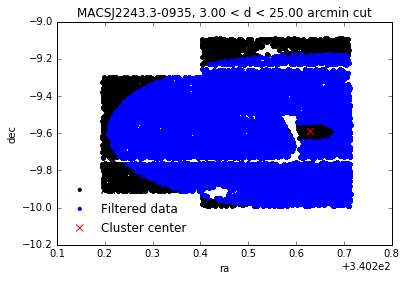
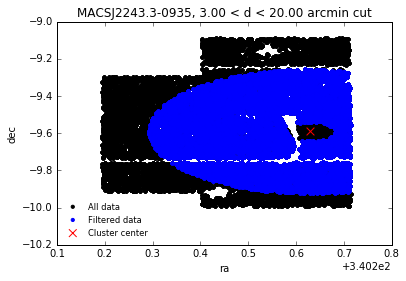
Correct data.py and the tutorial

diff --git a/clusters/data.py b/clusters/data.py
@@ -60,39 +60,40 @@ def get_from_butler(butler, catalog, filt, patch, **kwargs):
     tract = 0 if 'tract' not in kwargs else kwargs['tract']
     table = False if 'table' not in kwargs else kwargs['table']
     dataid = {'tract': tract, 'filter': filt, 'patch': patch}
-    b = butler.get(catalog, dataId=dataid)
-    return b if not table else get_astropy_table(b, **kwargs)
+    afwt = butler.get(catalog, dataId=dataid)
+    return afwt if not table else get_astropy_table(afwt, **kwargs)
 
 
-def add_magnitudes(t, getmagnitude):
+def add_magnitudes(table, getmagnitude):
     """Compute magns for all fluxes of a given table. Add the corresponding new columns."""
-    kfluxes = [k for k in t.columns if k.endswith('_flux')]
+    kfluxes = [k for k in table.columns if k.endswith('_flux')]
     ksigmas = [k + 'Sigma' for k in kfluxes]
-    for kf, ks in zip(kfluxes, ksigmas):
-        m, dm = numpy.array([getmagnitude(f, s) for f, s in zip(t[kf], t[ks])]).T
-        t.add_columns([Column(name=kf.replace('_flux', '_mag'), data=m,
-                              description='Magnitude', unit='mag'),
-                       Column(name=ks.replace('_fluxSigma', '_magSigma'), data=dm,
-                              description='Magnitude error', unit='mag')])
+    for kflux, ksigma in zip(kfluxes, ksigmas):
+        mag, dmag = numpy.array([getmagnitude(f, s)
+                                 for f, s in zip(table[kflux], table[ksigma])]).T
+        table.add_columns([Column(name=kflux.replace('_flux', '_mag'), data=mag,
+                                  description='Magnitude', unit='mag'),
+                           Column(name=ksigma.replace('_fluxSigma', '_magSigma'), data=dmag,
+                                  description='Magnitude error', unit='mag')])
 
 
-def add_position_and_deg(t, wcs):
+def add_position_and_deg(table, wcs):
     """Compute the x/y position in pixel for all sources. Add new columns to the table."""
     # Add the x / y position in pixel
-    x, y = skycoord_to_pixel(SkyCoord(t["coord_ra"].tolist(),
-                                      t["coord_dec"].tolist(), unit='rad'), wcs)
-    t.add_columns([Column(name='x_Src', data=x,
-                          description='x coordinate', unit='pixel'),
-                   Column(name='y_Src', data=y,
-                          description='y coordinate', unit='pixel')])
+    xsrc, ysrc = skycoord_to_pixel(SkyCoord(table["coord_ra"].tolist(),
+                                            table["coord_dec"].tolist(), unit='rad'), wcs)
+    table.add_columns([Column(name='x_Src', data=xsrc,
+                              description='x coordinate', unit='pixel'),
+                       Column(name='y_Src', data=ysrc,
+                              description='y coordinate', unit='pixel')])
 
     # Add a new column to have to coordinates in degree
-    t.add_columns([Column(name='coord_ra_deg',
-                          data=Angle(t['coord_ra'].tolist(), unit='rad').degree,
-                          description='RA coordinate', unit='degree'),
-                   Column(name='coord_dec_deg',
-                          data=Angle(t['coord_dec'].tolist(), unit='rad').degree,
-                          description='DEC coordinate', unit='degree')])
+    table.add_columns([Column(name='coord_ra_deg',
+                              data=Angle(table['coord_ra'].tolist(), unit='rad').degree,
+                              description='RA coordinate', unit='degree'),
+                       Column(name='coord_dec_deg',
+                              data=Angle(table['coord_dec'].tolist(), unit='rad').degree,
+                              description='DEC coordinate', unit='degree')])
 
 
 def add_filter_column(table, filt):
@@ -105,15 +106,15 @@ def add_patch_column(table, patch):
     table.add_column(Column(name='patch', data=[patch] * len(table), description='Patch name'))
 
 
-def add_extra_info(d):
+def add_extra_info(data):
     """Add magnitude and position to all tables."""
     # get the wcs
-    wcs = WCS(get_wcs(d))
+    wcs = WCS(get_wcs(data))
 
     # Shorcut to magnitude function
-    filt = d.keys()[0]
-    patch = d[filt].keys()[0]
-    getmag = d[filt][patch]['calexp'].getCalib().getMagnitude
+    filt = data.keys()[0]
+    patch = data[filt].keys()[0]
+    getmag = data[filt][patch]['calexp'].getCalib().getMagnitude
 
     def mag(flux, sigma):
         """Redefine the magnitude function. Negative flux or sigma possible."""
@@ -123,16 +124,16 @@ def add_extra_info(d):
             return getmag(flux, sigma)
 
     # compute all magnitudes and positions
-    for f in d:  # loop on filters
-        for p in d[f]:  # loop on patches
-            for e in ['deepCoadd_meas', 'deepCoadd_forced_src']:  # loop on catalogs
-                print "INFO: adding extra info for", f, p, e
-                add_magnitudes(d[f][p][e], mag)
-                add_filter_column(d[f][p][e], f)
-                add_patch_column(d[f][p][e], p)
-                add_position_and_deg(d[f][p][e], wcs)
+    for filt in data:  # loop on filters
+        for patch in data[filt]:  # loop on patches
+            for cat in ['deepCoadd_meas', 'deepCoadd_forced_src']:  # loop on catalogs
+                print "INFO: adding extra info for", filt, patch, cat
+                add_magnitudes(data[filt][patch][cat], mag)
+                add_filter_column(data[filt][patch][cat], filt)
+                add_patch_column(data[filt][patch][cat], patch)
+                add_position_and_deg(data[filt][patch][cat], wcs)
 
-    return d
+    return data
 
 
 def get_wcs(d):
@@ -172,7 +173,7 @@ def skycoord_to_pixel(coords, wcs, unit='deg'):
     return utils.skycoord_to_pixel(coords, wcs)
 
 
-def pixel_to_skycoord(x, y, wcs):
+def pixel_to_skycoord(xsrc, ysrc, wcs):
     """Transform pixel coordinates (x, y) to sky coordinates (ra, dec in deg) given a wcs.
 
     :param float x: x coordinate
@@ -180,7 +181,7 @@ def pixel_to_skycoord(x, y, wcs):
     :param wcs: an astropy.wcs.WCS object
     :return: an astropy.coordinates.SkyCoord object.
     """
-    return utils.pixel_to_skycoord(x, y, wcs)
+    return utils.pixel_to_skycoord(xsrc, ysrc, wcs)
 
 
 def get_all_data(path, patches, filters, add_extra=False, keys=None, show=False):
@@ -221,14 +222,14 @@ def get_all_data(path, patches, filters, add_extra=False, keys=None, show=False)
     return out
 
 
-def get_filter_data(butler, patches, f, keys=None):
+def get_filter_data(butler, patches, filt, keys=None):
     """
     Get butler data for a list of patches, for a given filter.
 
     Return a dictionnary with patches as keys
     """
-    print "INFO: loading filter", f
-    return {p: get_patch_data(butler, p, f, keys=keys) for p in patches}
+    print "INFO: loading filter", filt
+    return {patch: get_patch_data(butler, patch, filt, keys=keys) for patch in patches}
 
 
 def get_patch_data(butler, p, f, keys=None):
@@ -349,19 +350,21 @@ def from_list_to_array(d):
     return d
 
 
-def stack_tables(d):
+def stack_tables(data):
     """
     Stack the astropy tables across all patches.
 
     Return a new dictionnary of the form:
-    d = {u: {'deepCoadd_forced_src': table, 'deepCoadd_meas': table}, 
-         g: {'deepCoadd_forced_src': table, 'deepCoadd_meas': table}, ...}
+    d = {
+    u: {'deepCoadd_forced_src': table, 'deepCoadd_meas': table},
+    g: {'deepCoadd_forced_src': table, 'deepCoadd_meas': table}, ...
+    }
     """
     print "Info: Stacking the data (patches, filters) into a single astropy table"
-    return {'deepCoadd_meas': vstack([vstack([d[f][p]['deepCoadd_meas']
-                                              for p in d[f]]) for f in d]),
-            'deepCoadd_forced_src': vstack([vstack([d[f][p]['deepCoadd_forced_src']
-                                                    for p in d[f]]) for f in d])}
+    return {'deepCoadd_meas': vstack([vstack([data[filt][patch]['deepCoadd_meas']
+                                              for patch in data[filt]]) for filt in data]),
+            'deepCoadd_forced_src': vstack([vstack([data[filt][patch]['deepCoadd_forced_src']
+                                                    for patch in data[filt]]) for filt in data])}
 
 
 def write_data(d, output, overwrite=False):
@@ -481,29 +484,36 @@ def correct_for_extinction(ti, te, mag='modelfit_CModel_mag', ext='sfd', ifilt="
                            (ifilt, ext))])
 
 
-def filter_around(data, config, exclude_outer=1, exclude_inner=0, plot=False, unit='degree'):
+def filter_around(data, config, **kwargs):
     """Apply a circulat filter on the catalog around the center of the cluster.
 
     :param table data: The astropy table containing your data
     :param dict config: The analysis configuration file, which must contains the cluster coordinates
-    :param float exclude_inner: Cut galaxies inside this radius (degree)
-    :param float exclude_outer: Cut galaxies outside this radius (degree)
-    :param bool plot: Produce a figure if set to True
+
+    List of available kwargs:
+
+    :param float exclude_inner: Cut galaxies inside this radius [0]
+    :param float exclude_outer: Cut galaxies outside this radius [inf]
+    :param str unit: Unit of the input cuts [degree]
+    :param bool plot: Do not produce a figure if set to False
     :return: A filter data table containing galaxie inside [exclude_inner, exclude_outer]
     """
     coord = SkyCoord(ra=[config['ra']], dec=[config['dec']], unit='deg')
     coords = SkyCoord(data['coord_ra_deg'], data['coord_dec_deg'], unit='deg')
     separation = coord.separation(coords)
+    unit = kwargs.get('unit', 'degree')
     if hasattr(separation, unit):
         separation = getattr(separation, unit)
     else:
         arglist = "\n" + ", ".join(sorted([a for a in dir(separation) if not a.startswith('_')]))
         raise AttributeError("Angle instance has no attribute %s. Available attributes are: %s" % \
                              (unit, arglist))
-    data_around = data[(separation < exclude_outer) & (separation >= exclude_inner)]
-    if plot:
+    data_around = data[(separation >= kwargs.get('exclude_inner', 0)) & \
+                       (separation < kwargs.get('exclude_outer', numpy.inf))]
+    if kwargs.get('plot', True):
         title = "%s, %.2f < d < %.2f %s cut" % \
-                (config['cluster'], exclude_inner, exclude_outer, unit)
+                (config['cluster'], kwargs.get('exclude_inner', 0),
+                 kwargs.get('exclude_outer', numpy.inf), unit)
         plot_coordinates(data, data_around,
                          cluster_coord=(config['ra'], config['dec']), title=title)
     return data_around
@@ -520,8 +530,8 @@ def plot_coordinates(all_data, filtered_data, cluster_coord=None, title=None):
                label="Filtered data", s=10)
     if cluster_coord is not None:
         ax.scatter([cluster_coord[0]], [cluster_coord[1]], color='r', label='Cluster center',
-                   marker='x', s=50)
+                   marker='x', s=60)
     if title is not None:
         ax.set_title(title)
-    ax.legend(loc='lower left', scatterpoints=1, frameon=False)
+    ax.legend(loc='lower left', scatterpoints=1, frameon=False, fontsize='small')
     pylab.show()

diff --git a/clusters/background.py b/clusters/background.py
@@ -50,7 +50,7 @@ def fit_red_sequence(color, mag, **kwargs):
 
     :param list color: A list of color mag_i - mag_j (ordinate)
     :param list mag: List of magnitude (abciss)
-    :param **kwargs:
+    :param \*\*kwargs:
 
      - minc (float): lower cut on the color axis: color > minc (1.0)
      - maxc (float): upper cut of the color axis: color < maxc  (2.0)

diff --git a/docs/source/data_tuto.rst b/docs/source/data_tuto.rst
@@ -172,7 +172,7 @@ and plot them against each other
 
 .. parsed-literal::
 
-    <matplotlib.text.Text at 0x7f304d91ad10>
+    <matplotlib.text.Text at 0x7f55453994d0>
 
 
 
@@ -208,7 +208,7 @@ The same plot as in the above example now looks like
 
 .. parsed-literal::
 
-    <matplotlib.text.Text at 0x7f319f02ce10>
+    <matplotlib.text.Text at 0x7f55451f92d0>
 
 
 
@@ -255,7 +255,7 @@ Add it to the initial table and plot it against the initial magnitude (for the `
 
 .. parsed-literal::
 
-    <matplotlib.text.Text at 0x7f3159784290>
+    <matplotlib.text.Text at 0x7f55449552d0>
 
 
 
@@ -272,12 +272,22 @@ If you only want to work on a sample of galaxies center around the cluster at a 
 
 .. code:: python
 
-    config = data.load_config('/sps/lsst/data/clusters/MACSJ2243.3-0935/analysis/output_v1/MACSJ2243.3-0935.yaml') 
-    fc_filtered_2 = data.filter_around(fc_filtered, config, exclude_outer=25, exclude_inner=3, plot=True, unit='arcmin')
+    confile = '/sps/lsst/data/clusters/MACSJ2243.3-0935/analysis/output_v1/MACSJ2243.3-0935.yaml'
+    config = data.load_config(confile) 
+    output = data.filter_around(fc_filtered, config, exclude_outer=20, exclude_inner=3, unit='arcmin')
 
 
 
 .. image:: data_tuto_files/data_tuto_32_0.png
 
 
-The output of ``filter_around`` is a filtered data table.
+The output of ``filter_around`` is a filtered data table. You can also choose a different unit:
+
+.. code:: python
+
+    output = data.filter_around(fc_filtered, config, exclude_outer=0.3, exclude_inner=0.1, unit='degree')
+
+
+
+.. image:: data_tuto_files/data_tuto_34_0.png
+
